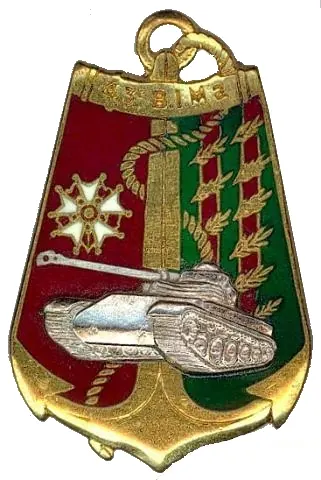
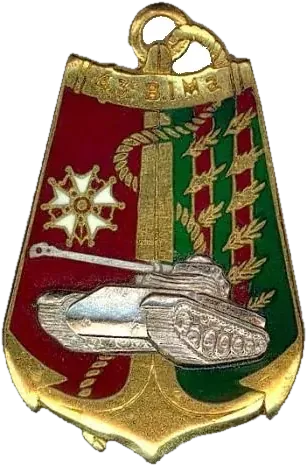
Retire le fond des insignes

diff --git a/methode.html b/methode.html
@@ -67,7 +67,7 @@
       <li>Logo de la Marine nationale : SIRPA Marine nationale, <a href="https://commons.wikimedia.org/wiki/File:LOGO_MARINE_NATIONALE_2021.svg">Wikimedia Commons</a>, licence <a href="https://creativecommons.org/licenses/by-sa/4.0/deed.fr">CC BY-SA 4.0</a>.</li>
       <li>Logo de l'Armée de l'Air et de l'Espace : vectorisation par Dorian crd, <a href="https://commons.wikimedia.org/wiki/File:Logo_de_l%27Arm%C3%A9e_de_l%27Air_et_de_l%27Espace.svg">Wikimedia Commons</a>, domaine public.</li>
       <li>Logo de la Gendarmerie nationale : vectorisation par Futurhit12, <a href="https://commons.wikimedia.org/wiki/File:Gendarmerie_nationale_logo.svg">Wikimedia Commons</a>, domaine public.</li>
-      <li>Photos et insignes des cartes à collectionner : <a href="https://commons.wikimedia.org/">Wikimedia Commons</a>, sous licence libre (domaine public, CC0, CC BY, CC BY-SA ou Licence Ouverte). L'auteur, la licence et le lien vers le fichier sont indiqués dans le détail de chaque carte. Les insignes restent la propriété des unités qu'ils représentent.</li>
+      <li>Photos et insignes des cartes à collectionner : <a href="https://commons.wikimedia.org/">Wikimedia Commons</a>, sous licence libre (domaine public, CC0, CC BY, CC BY-SA ou Licence Ouverte). L'auteur, la licence et le lien vers le fichier sont indiqués dans le détail de chaque carte. Les images ont été redimensionnées et converties en WebP, et le fond des insignes a été retiré. Les insignes restent la propriété des unités qu'ils représentent.</li>
     </ul>
     <p>Ces logos sont des marques et emblèmes de leurs titulaires (ministère des Armées, ministère de l'Intérieur). Ils sont utilisés uniquement pour identifier chaque force ; leur présence n'implique aucun lien avec ces institutions ni leur approbation. Sur simple demande des titulaires, ils seront retirés.</p>
     </div>
@@ -116,7 +116,7 @@
       <li>French Navy logo: SIRPA Marine nationale, <a href="https://commons.wikimedia.org/wiki/File:LOGO_MARINE_NATIONALE_2021.svg">Wikimedia Commons</a>, <a href="https://creativecommons.org/licenses/by-sa/4.0/">CC BY-SA 4.0</a>.</li>
       <li>French Air and Space Force logo: vector by Dorian crd, <a href="https://commons.wikimedia.org/wiki/File:Logo_de_l%27Arm%C3%A9e_de_l%27Air_et_de_l%27Espace.svg">Wikimedia Commons</a>, public domain.</li>
       <li>Gendarmerie nationale logo: vector by Futurhit12, <a href="https://commons.wikimedia.org/wiki/File:Gendarmerie_nationale_logo.svg">Wikimedia Commons</a>, public domain.</li>
-      <li>Collectible card photos and insignia: <a href="https://commons.wikimedia.org/">Wikimedia Commons</a>, under free licences (public domain, CC0, CC BY, CC BY-SA or Licence Ouverte). Author, licence and a link to the file are shown in each card's details. Insignia remain the property of the units they represent.</li>
+      <li>Collectible card photos and insignia: <a href="https://commons.wikimedia.org/">Wikimedia Commons</a>, under free licences (public domain, CC0, CC BY, CC BY-SA or Licence Ouverte). Author, licence and a link to the file are shown in each card's details. Images were resized and converted to WebP, and insignia backgrounds were removed. Insignia remain the property of the units they represent.</li>
     </ul>
     <p>These logos are trademarks and emblems of their owners (French Ministry of the Armed Forces, Ministry of the Interior). They are used only to identify each service and do not imply any affiliation or endorsement. They will be removed at the owners' request.</p>
     </div>
